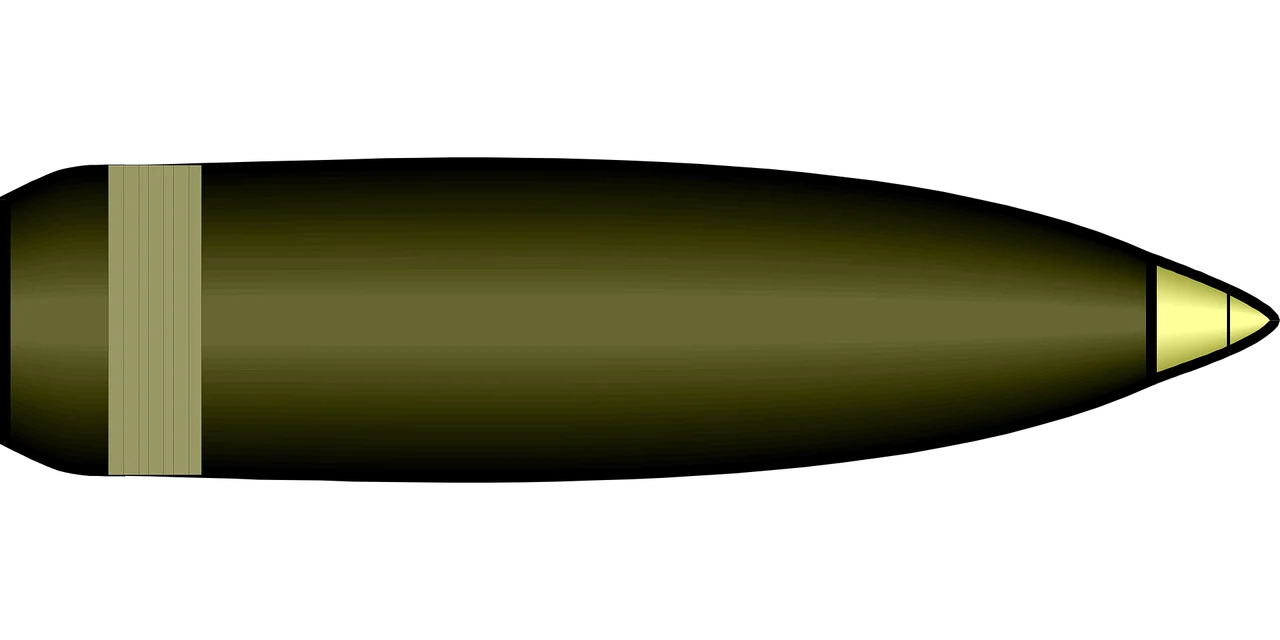
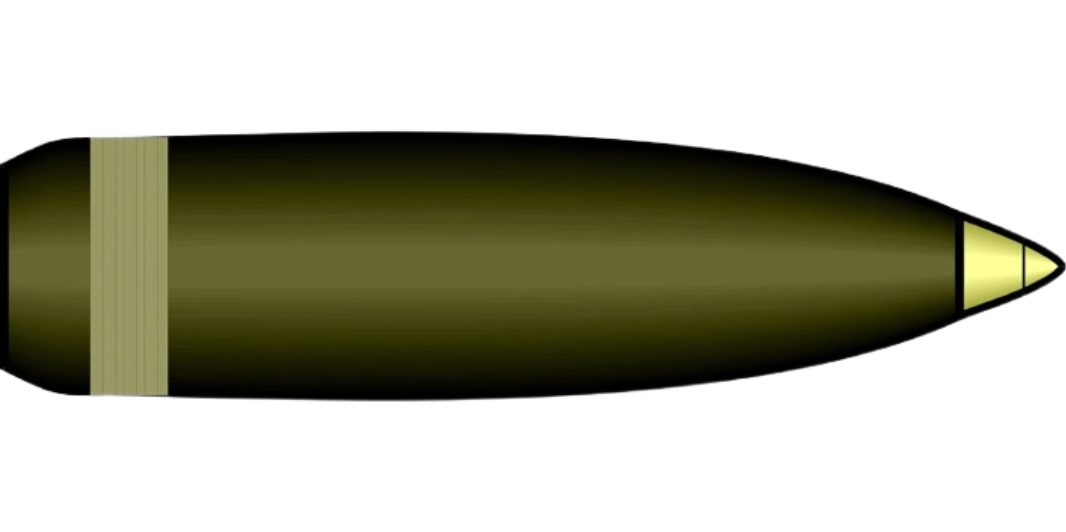
fixed bad image

diff --git a/src/tankgame/game/GamePanel.java b/src/tankgame/game/GamePanel.java
@@ -77,7 +77,7 @@ public final class GamePanel extends JPanel {
 
         try {
             tank = resizeImage(60, 80, ImageIO.read(new File("src" + File.separator + "images" + File.separator + "tank.png")));
-            bullet = resizeImage(20, 40, ImageIO.read(new File("src" + File.separator + "images" + File.separator + "bullet.png")));
+            bullet = resizeImage(20, 20, ImageIO.read(new File("src" + File.separator + "images" + File.separator + "bullet.png")));
         } catch (IOException e) {
             System.out.println("error loading file");
         } catch (NullPointerException e) {